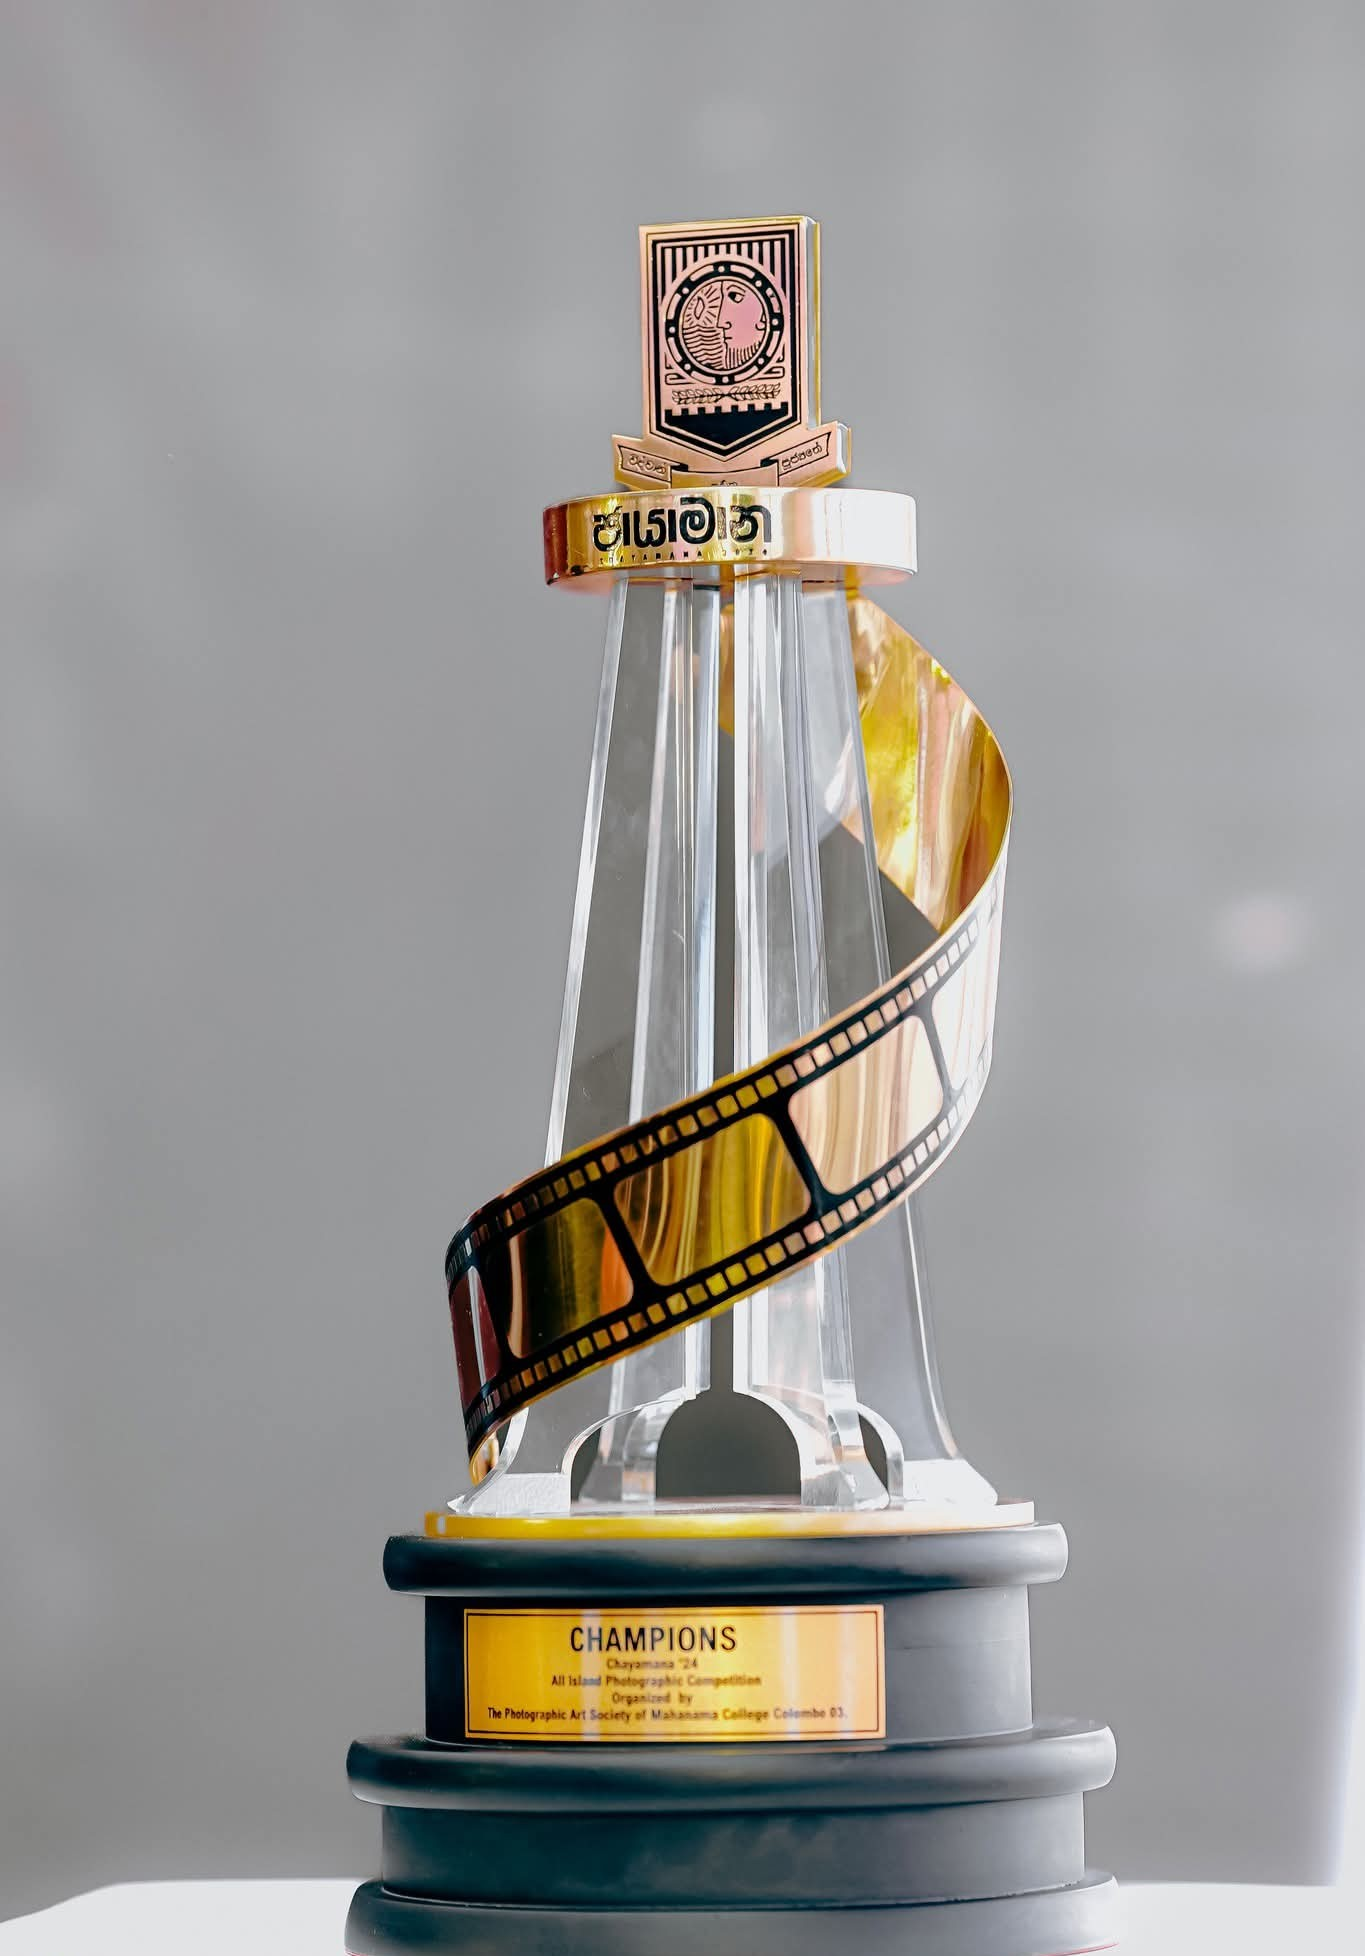
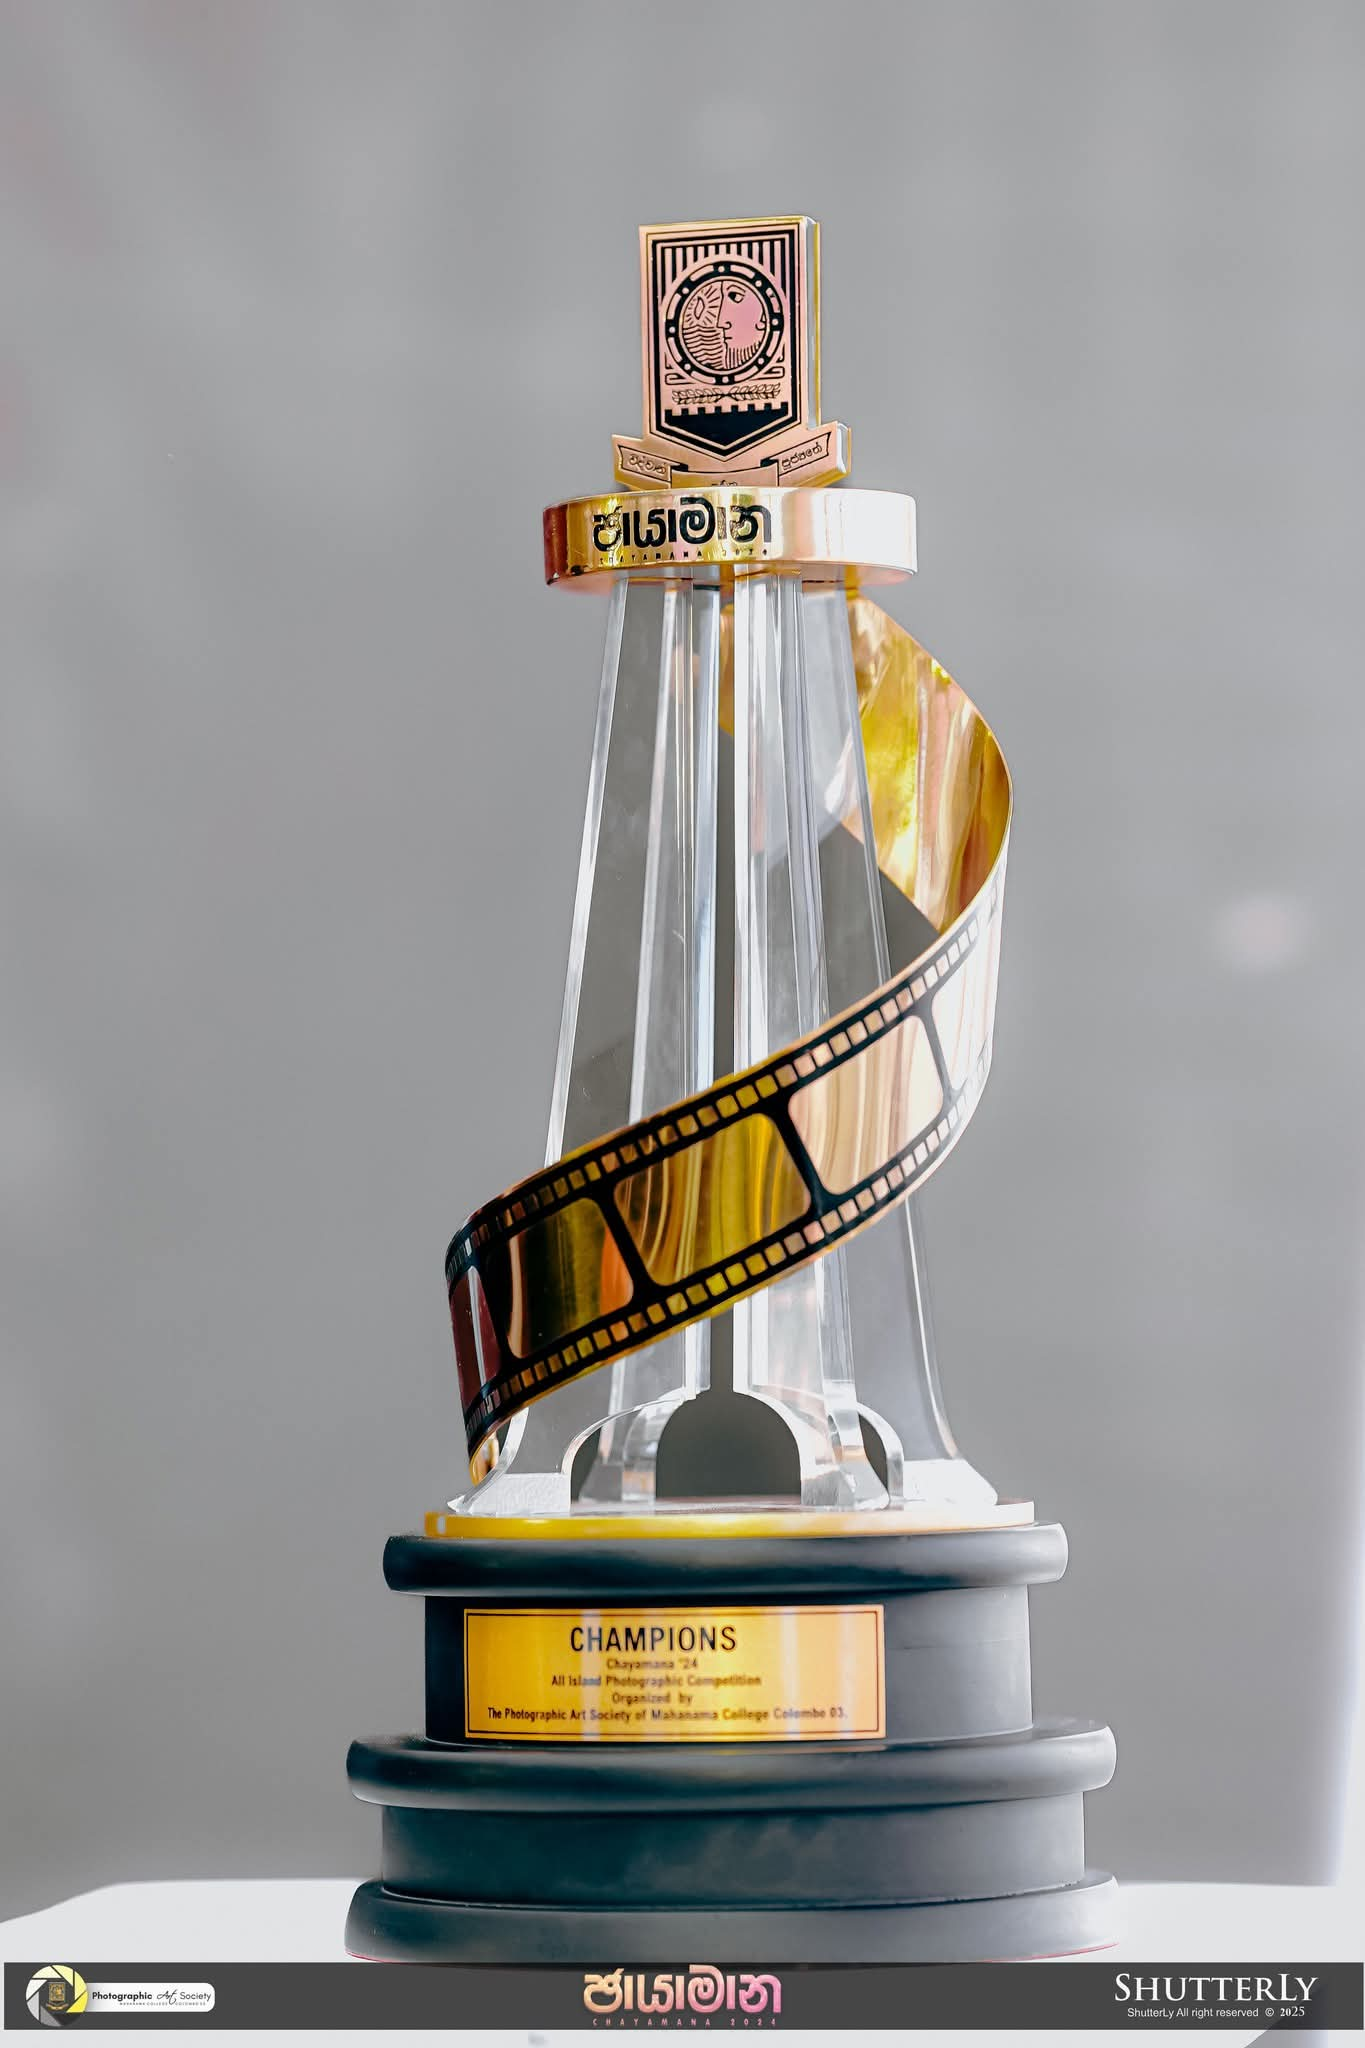
KK

Changed region(s): [[0.0, 0.0936, 1.0, 1.0]]

diff --git a/js/main.js b/js/main.js
@@ -19,7 +19,7 @@ $(function () {
 
     ***************************/
     const options = {
-        containers: ['#swupMain'],
+        containers: ['#swupMain', '#swupMenu'],
         animateHistoryBrowsing: true,
         linkSelector: 'a:not([data-no-swup])',
         animationSelector: '[class="mil-main-transition"]'
@@ -40,7 +40,7 @@ $(function () {
 
     var accent = 'rgba(255, 152, 0, 1)';
     var dark = '#000';
-    var light = '#ffff';
+    var light = '#fff';
 
     /***************************
 
@@ -139,12 +139,9 @@ $(function () {
 
     ***************************/
     $(document).ready(function () {
-        if ($(".mil-animation .mil-dodecahedron").length === 0) {
-            $(".mil-dodecahedron").clone().appendTo(".mil-animation");
-        }
-        if ($(".mil-lines-place .mil-lines").length === 0) {
-            $(".mil-lines").clone().appendTo(".mil-lines-place");
-        }
+        $(".mil-arrow").clone().appendTo(".mil-arrow-place");
+        $(".mil-dodecahedron").clone().appendTo(".mil-animation");
+        $(".mil-lines").clone().appendTo(".mil-lines-place");
         $(".mil-main-menu ul li.mil-active > a").clone().appendTo(".mil-current-page");
     });
     /***************************
@@ -389,7 +386,7 @@ $(function () {
 
     ***************************/
     gsap.to('.mil-progress', {
-        height: '200%',
+        height: '100%',
         ease: 'sine',
         scrollTrigger: {
             scrub: 0.3
@@ -502,13 +499,14 @@ $(function () {
 
     ***************************/
 
+    var menu = ['<div class="mil-custom-dot mil-slide-1"></div>', '<div class="mil-custom-dot mil-slide-2"></div>', '<div class="mil-custom-dot mil-slide-3"></div>', '<div class="mil-custom-dot mil-slide-4"></div>', '<div class="mil-custom-dot mil-slide-5"></div>', '<div class="mil-custom-dot mil-slide-6"></div>', '<div class="mil-custom-dot mil-slide-7"></div>']
     var mySwiper = new Swiper('.mil-reviews-slider', {
         // If we need pagination
         pagination: {
             el: '.mil-revi-pagination',
             clickable: true,
             renderBullet: function (index, className) {
-                return '<span class="' + className + '"><span class="mil-custom-dot"></span></span>';
+                return '<span class="' + className + '">' + (menu[index]) + '</span>';
             },
         },
         speed: 800,
@@ -519,7 +517,6 @@ $(function () {
             prevEl: '.mil-revi-prev',
         },
     })
-    initReviewPaginationBullets();
 
     /***************************
 
@@ -643,7 +640,7 @@ $(function () {
 
         ***************************/
         $(document).ready(function () {
-            $(".mil-arrow-place .mil-arrow, .mil-animation .mil-dodecahedron, .mil-lines-place .mil-lines, .mil-current-page a").remove();
+            $(".mil-arrow-place .mil-arrow, .mil-animation .mil-dodecahedron, .mil-current-page a").remove();
             $(".mil-arrow").clone().appendTo(".mil-arrow-place");
             $(".mil-dodecahedron").clone().appendTo(".mil-animation");
             $(".mil-lines").clone().appendTo(".mil-lines-place");
@@ -943,127 +940,24 @@ $(function () {
 
         ***************************/
 
-        function initReviewPaginationBullets() {
-            function getBulletPhotos() {
-                var images = document.querySelectorAll('.mil-reviews-slider .swiper-slide:not(.swiper-slide-duplicate) .mil-review-avatar img');
-                return Array.from(images).map(function (img) {
-                    return img.src;
-                });
-            }
-
-            function applyBulletPhotos() {
-                var bullets = document.querySelectorAll('.mil-revi-pagination .swiper-pagination-bullet');
-                var bulletPhotos = getBulletPhotos();
-                var realSlideCount = document.querySelectorAll('.mil-reviews-slider .swiper-slide:not(.swiper-slide-duplicate)').length;
-
-                bullets.forEach(function (bullet, index) {
-                    if (index >= realSlideCount) {
-                        bullet.style.display = 'none';
-                        var dot = bullet.querySelector('.mil-custom-dot');
-                        if (dot) {
-                            dot.style.backgroundImage = 'none';
-                        }
-                        return;
-                    }
-                    bullet.style.display = '';
-                    var dot = bullet.querySelector('.mil-custom-dot');
-                    var photo = bulletPhotos[index];
-                    if (!photo) {
-                        if (dot) {
-                            dot.style.backgroundImage = 'none';
-                        }
-                        return;
-                    }
-                    if (dot) {
-                        dot.style.backgroundImage = "url('" + photo + "')";
-                        dot.style.backgroundSize = 'cover';
-                        dot.style.backgroundPosition = 'center';
-                        dot.style.backgroundRepeat = 'no-repeat';
-                    } else {
-                        bullet.style.backgroundImage = "url('" + photo + "')";
-                        bullet.style.backgroundSize = 'cover';
-                        bullet.style.backgroundPosition = 'center';
-                        bullet.style.backgroundRepeat = 'no-repeat';
-                    }
-                });
-            }
-
-            var paginationContainer = document.querySelector('.mil-revi-pagination');
-            if (!paginationContainer) {
-                return;
-            }
-
-            if (window.reviewPaginationObserver) {
-                window.reviewPaginationObserver.disconnect();
-            }
-
-            var initialCheck = setInterval(function () {
-                if (paginationContainer.querySelector('.swiper-pagination-bullet')) {
-                    applyBulletPhotos();
-                    clearInterval(initialCheck);
-                }
-            }, 300);
-
-            window.reviewPaginationObserver = new MutationObserver(function () {
-                applyBulletPhotos();
-            });
-            window.reviewPaginationObserver.observe(paginationContainer, { childList: true, subtree: true });
-        }
-
-        function initReviewSlider() {
-            if (!document.querySelector('.mil-reviews-slider')) {
-                return;
-            }
-
-            if (window.milReviewSwiper && window.milReviewSwiper.destroy) {
-                window.milReviewSwiper.destroy(true, true);
-            }
-
-            var menu = [
-                '<div class="mil-custom-dot mil-slide-1"></div>',
-                '<div class="mil-custom-dot mil-slide-2"></div>',
-                '<div class="mil-custom-dot mil-slide-3"></div>',
-                '<div class="mil-custom-dot mil-slide-4"></div>',
-                '<div class="mil-custom-dot mil-slide-5"></div>',
-                '<div class="mil-custom-dot mil-slide-6"></div>',
-                '<div class="mil-custom-dot mil-slide-7"></div>',
-                '<div class="mil-custom-dot mil-slide-8"></div>'
-            ];
-            window.milReviewSwiper = new Swiper('.mil-reviews-slider', {
-                pagination: {
-                    el: '.mil-revi-pagination',
-                    clickable: true,
-                    renderBullet: function (index, className) {
-                        return '<span class="' + className + '">' + (menu[index] || '') + '</span>';
-                    },
+        var menu = ['<div class="mil-custom-dot mil-slide-1"></div>', '<div class="mil-custom-dot mil-slide-2"></div>', '<div class="mil-custom-dot mil-slide-3"></div>', '<div class="mil-custom-dot mil-slide-4"></div>', '<div class="mil-custom-dot mil-slide-5"></div>', '<div class="mil-custom-dot mil-slide-6"></div>', '<div class="mil-custom-dot mil-slide-7"></div>']
+        var mySwiper = new Swiper('.mil-reviews-slider', {
+            // If we need pagination
+            pagination: {
+                el: '.mil-revi-pagination',
+                clickable: true,
+                renderBullet: function (index, className) {
+                    return '<span class="' + className + '">' + (menu[index]) + '</span>';
                 },
-                speed: 800,
-                effect: 'fade',
-                parallax: true,
-                initialSlide: 0,
-                loop: false,
-                autoplay: {
-                    delay: 3000,
-                    disableOnInteraction: false,
-                },
-                navigation: {
-                    nextEl: '.mil-revi-next',
-                    prevEl: '.mil-revi-prev',
-                },
-            });
-
-            if (window.milReviewSwiper && window.milReviewSwiper.slideTo) {
-                window.milReviewSwiper.slideTo(0, 0);
-            }
-
-            initReviewPaginationBullets();
-        }
-
-        initReviewSlider();
-
-        if (window.milReviewSwiper && window.milReviewSwiper.slideTo) {
-            window.milReviewSwiper.slideTo(0, 0);
-        }
+            },
+            speed: 800,
+            effect: 'fade',
+            parallax: true,
+            navigation: {
+                nextEl: '.mil-revi-next',
+                prevEl: '.mil-revi-prev',
+            },
+        })
 
         /***************************
 

diff --git a/css/style.css b/css/style.css
@@ -657,34 +657,6 @@ button
   -webkit-transform: scale(1.15) rotate(90deg);
           transform: scale(1.15) rotate(90deg);
 }
-.mil-arrow-place {
-  position: relative;
-  display: inline-flex;
-  align-items: center;
-  justify-content: center;
-}
-.mil-arrow-place::after {
-  content: "\2192";
-  display: inline-flex;
-  align-items: center;
-  justify-content: center;
-  width: 38px;
-  height: 38px;
-  min-width: 38px;
-  margin-left: 12px;
-  border-radius: 50%;
-  background: #000;
-  color: #fff;
-  font-size: 16px;
-  text-align: center;
-  line-height: 1;
-}
-.mil-arrow-place.mil-arrow-down::after {
-  content: "\2193";
-}
-.mil-arrow-place.mil-arrow-down {
-  padding-right: 8px;
-}
 @media screen and (max-width: 992px) {
   .mil-button {
     height: 60px;
@@ -1216,7 +1188,7 @@ frame
 
 ------------------------------------------- */
 .mil-logo {
-  font-size: 40px;
+  font-size: 42px;
   font-weight: 500;
   line-height: 100%;
 }
@@ -1259,11 +1231,11 @@ frame
 @media screen and (max-width: 1200px) {
   .mil-frame .mil-frame-top {
     height: 90px;
-    background: transparent;
-    border-bottom: none;
+    background-color: rgba(0, 0, 0, 0.95);
+    border-bottom: solid 1px rgba(255, 255, 255, 0.1);
     padding: 0 30px;
-    -webkit-backdrop-filter: none;
-            backdrop-filter: none;
+    -webkit-backdrop-filter: blur(8px);
+            backdrop-filter: blur(8px);
   }
   .mil-frame .mil-frame-top .mil-logo {
     color: rgb(255, 255, 255);
@@ -1308,7 +1280,6 @@ frame
 }
 
 .mil-frame-top {
-  position: relative;
   display: -webkit-box;
   display: -ms-flexbox;
   display: flex;
@@ -1318,40 +1289,10 @@ frame
   -webkit-box-align: center;
       -ms-flex-align: center;
           align-items: center;
-  background: transparent;
-  border-bottom: none;
-  padding: 0 30px;
-  min-height: 90px;
-}
-.mil-frame-top::before {
-  display: none;
 }
 .mil-frame-top .mil-logo {
   pointer-events: all;
-  color: rgb(255, 255, 255);
-  position: relative;
-  z-index: 10001;
-}
-
-.mil-frame-top .mil-logo,
-.mil-frame-top .mil-logo img {
-  background-color: transparent !important;
-  border-radius: 0 !important;
-}
-
-.mil-frame-top .mil-logo img {
-  display: block;
-  max-height: 56px;
-  width: auto;
-  opacity: 1 !important;
-  visibility: visible !important;
-  padding: 0 !important;
-  margin: 0 !important;
-  box-shadow: none !important;
-  -webkit-box-shadow: none !important;
-  border: none !important;
-  outline: none !important;
-  filter: none !important;
+  color: rgb(0, 0, 0);
 }
 
 /* -------------------------------------------
@@ -2768,14 +2709,12 @@ revievs
           box-shadow: inset 0 0 0 4px rgb(255, 255, 255);
 }
 .mil-revi-pagination .swiper-pagination-bullet .mil-custom-dot {
-  background-color: transparent;
+  background-color: red;
   width: 90px;
   height: 90px;
   border-radius: 50%;
-  background-image: none;
   background-size: cover;
-  background-position: center;
-  background-repeat: no-repeat;
+  background-position: top;
   -webkit-transition: 0.4s cubic-bezier(0, 0, 0.3642, 1) !important;
   transition: 0.4s cubic-bezier(0, 0, 0.3642, 1) !important;
 }
@@ -2784,6 +2723,27 @@ revievs
     width: 70px;
     height: 70px;
   }
+}
+.mil-revi-pagination .swiper-pagination-bullet .mil-custom-dot.mil-slide-1 {
+  background-image: url(../img/faces/customers/1.jpg);
+}
+.mil-revi-pagination .swiper-pagination-bullet .mil-custom-dot.mil-slide-2 {
+  background-image: url(../img/faces/customers/2.jpg);
+}
+.mil-revi-pagination .swiper-pagination-bullet .mil-custom-dot.mil-slide-3 {
+  background-image: url(../img/faces/customers/3.jpg);
+}
+.mil-revi-pagination .swiper-pagination-bullet .mil-custom-dot.mil-slide-4 {
+  background-image: url(../img/faces/customers/4.jpg);
+}
+.mil-revi-pagination .swiper-pagination-bullet .mil-custom-dot.mil-slide-5 {
+  background-image: url(../img/faces/customers/5.jpg);
+}
+.mil-revi-pagination .swiper-pagination-bullet .mil-custom-dot.mil-slide-6 {
+  background-image: url(../img/faces/customers/6.jpg);
+}
+.mil-revi-pagination .swiper-pagination-bullet .mil-custom-dot.mil-slide-7 {
+  background-image: url(../img/faces/customers/7.jpg);
 }
 .mil-revi-pagination .swiper-pagination-bullet.swiper-pagination-bullet-active {
   -webkit-box-shadow: inset 0 0 0 4px rgb(255, 152, 0);
@@ -2890,12 +2850,8 @@ blog
 .mil-blog-card .mil-post-descr .mil-post-text {
   text-overflow: ellipsis;
   display: -webkit-box;
-.your-class {
-  display: -webkit-box;
+  -webkit-line-clamp: 2;
   -webkit-box-orient: vertical;
-  overflow: hidden;
-  text-overflow: ellipsis; /* adds "..." at the cut-off point */
-}  -webkit-box-orient: vertical;
   overflow: hidden;
 }
 .mil-blog-card:hover .mil-cover-frame img {

diff --git a/css/plugins/fancybox.min.css b/css/plugins/fancybox.min.css
@@ -15,7 +15,7 @@ body.compensate-for-scrollbar {
 }
 
 .fancybox-container {
-    
+    -webkit-backface-visibility: hidden;
     height: 100%;
     left: 0;
     outline: none;
